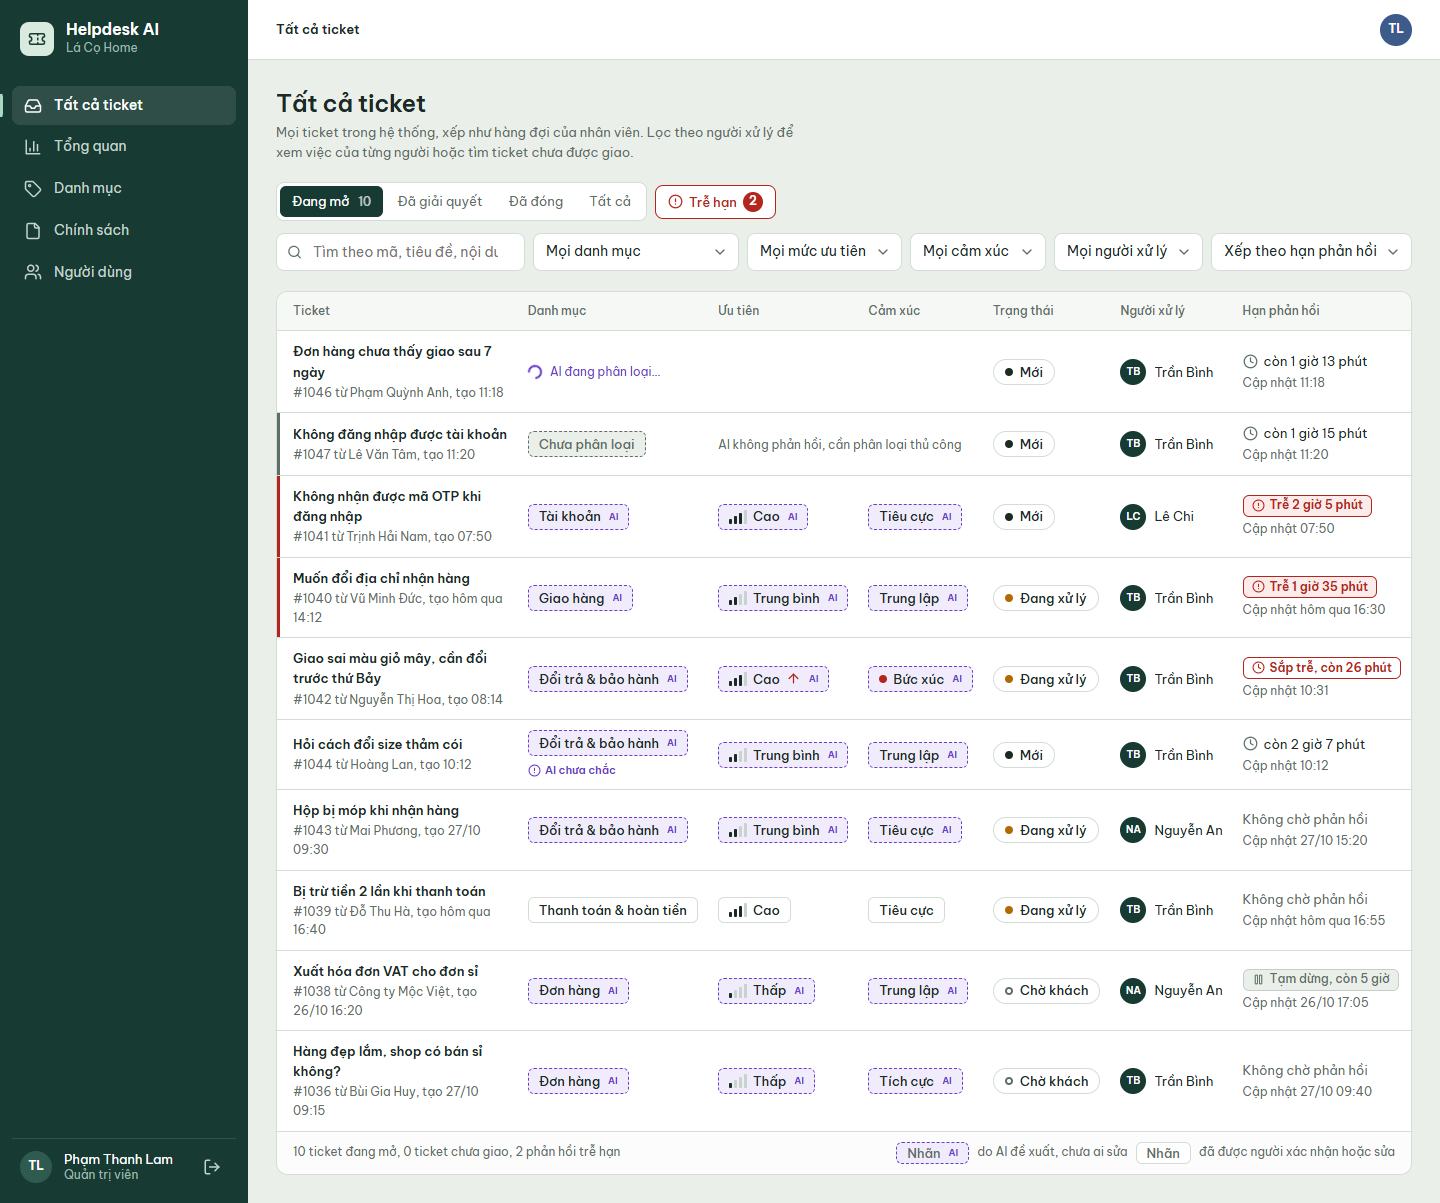
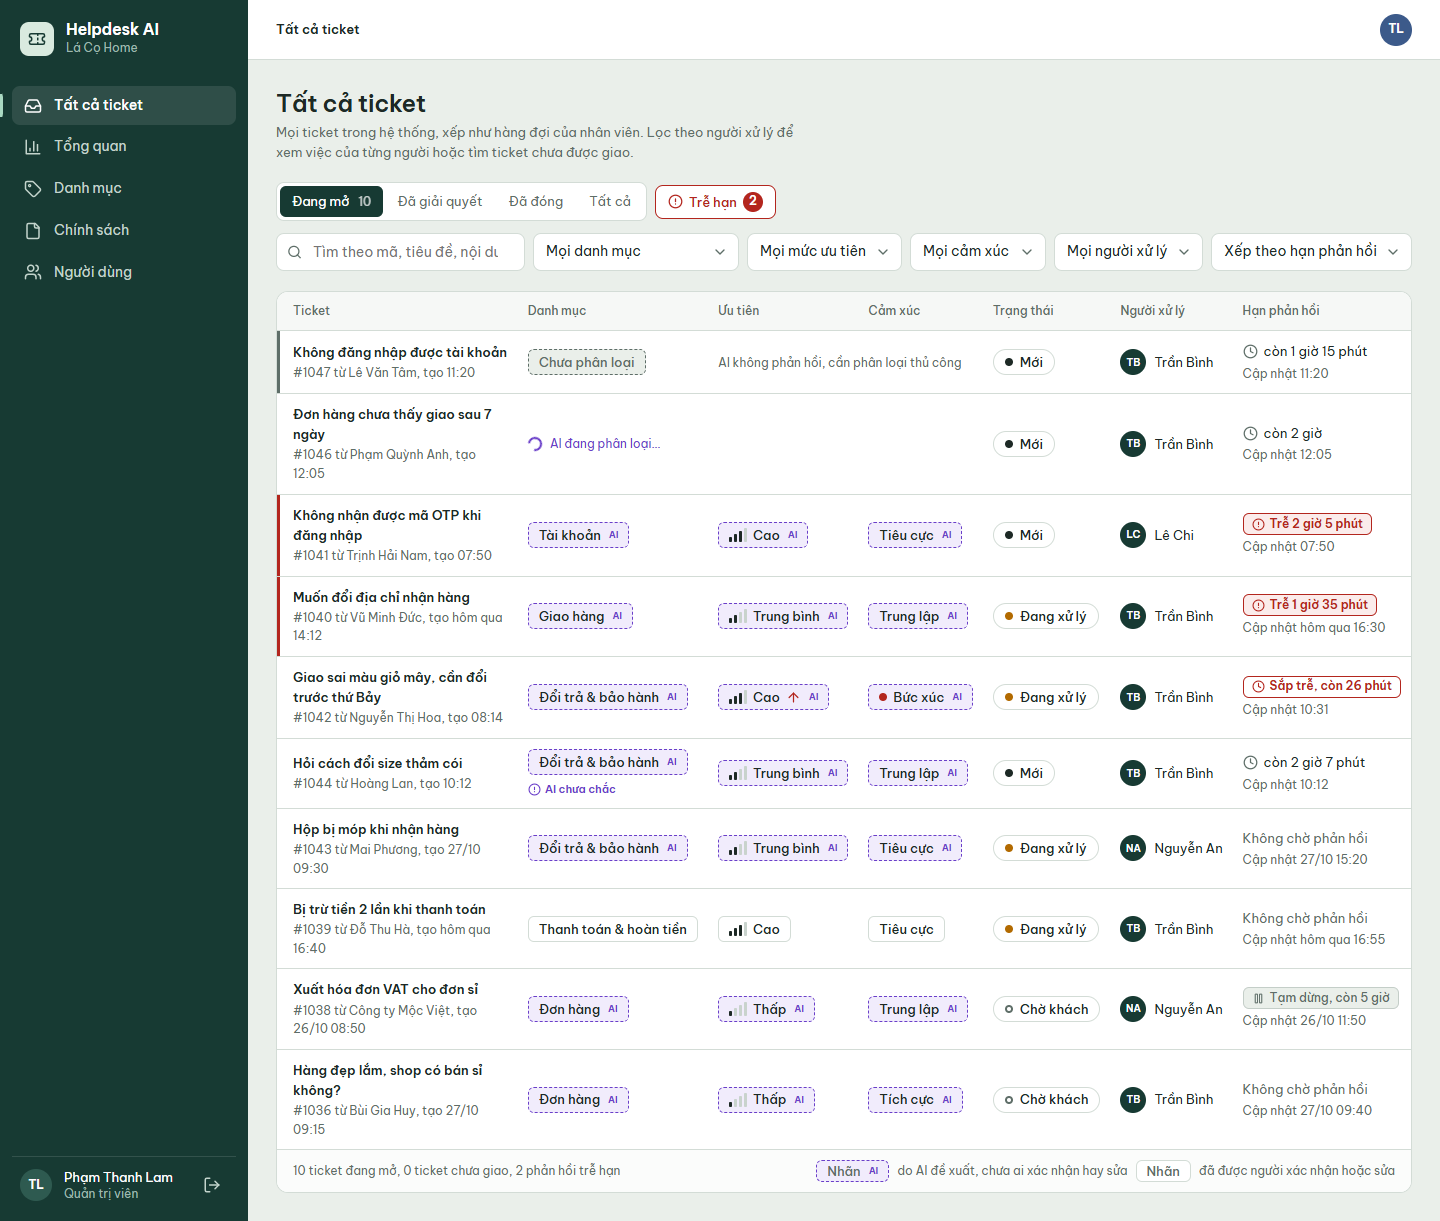
docs(step-4): fix queue sample data and trace BR-22 to the clock stories
- #1046 still Pending at 12:05 is now created at 12:05 (DF-28) and
  sorts after #1047 (pinned group, oldest first)
- #1038 paused time matches its timestamps (low target, 3 h used)
- Legend: AI chips are labels nobody has confirmed or corrected yet
- Queue PNGs re-exported
- BR-22 related to US-06, US-08, US-09, which start or end clocks

diff --git a/docs/04-uiux/wireframes/20-ticket-queue.html b/docs/04-uiux/wireframes/20-ticket-queue.html
@@ -122,13 +122,6 @@
           </tbody>
 
           <tbody data-hide="loading">
-            <tr>
-              <td><div class="t-title"><a href="21-ticket-handling.html?state=classification-pending">Đơn hàng chưa thấy giao sau 7 ngày</a><span>#1046 từ Phạm Quỳnh Anh, tạo 11:18</span></div></td>
-              <td colspan="3"><span class="row xs t-pencil"><span class="spinner" aria-hidden="true"></span>AI đang phân loại…</span></td>
-              <td><span class="status status-new"><span class="dot"></span>Mới</span></td>
-              <td data-role="admin"><span class="cell-person"><span class="avatar avatar-staff">TB</span>Trần Bình</span></td>
-              <td><div class="due"><span class="due-time"><svg class="i i-sm"><use href="#i-clock"></use></svg>còn 1 giờ 13 phút</span><span class="due-upd">Cập nhật 11:18</span></div></td>
-            </tr>
             <tr class="row-attention">
               <td><div class="t-title"><a href="21-ticket-handling.html?state=unclassified-ai-error">Không đăng nhập được tài khoản</a><span>#1047 từ Lê Văn Tâm, tạo 11:20</span></div></td>
               <td><span class="chip chip-unclassified">Chưa phân loại</span></td>
@@ -136,6 +129,13 @@
               <td><span class="status status-new"><span class="dot"></span>Mới</span></td>
               <td data-role="admin"><span class="cell-person"><span class="avatar avatar-staff">TB</span>Trần Bình</span></td>
               <td><div class="due"><span class="due-time"><svg class="i i-sm"><use href="#i-clock"></use></svg>còn 1 giờ 15 phút</span><span class="due-upd">Cập nhật 11:20</span></div></td>
+            </tr>
+            <tr>
+              <td><div class="t-title"><a href="21-ticket-handling.html?state=classification-pending">Đơn hàng chưa thấy giao sau 7 ngày</a><span>#1046 từ Phạm Quỳnh Anh, tạo 12:05</span></div></td>
+              <td colspan="3"><span class="row xs t-pencil"><span class="spinner" aria-hidden="true"></span>AI đang phân loại…</span></td>
+              <td><span class="status status-new"><span class="dot"></span>Mới</span></td>
+              <td data-role="admin"><span class="cell-person"><span class="avatar avatar-staff">TB</span>Trần Bình</span></td>
+              <td><div class="due"><span class="due-time"><svg class="i i-sm"><use href="#i-clock"></use></svg>còn 2 giờ</span><span class="due-upd">Cập nhật 12:05</span></div></td>
             </tr>
             <tr class="row-late" data-role="admin">
               <td><div class="t-title"><a href="21-ticket-handling.html?role=admin">Không nhận được mã OTP khi đăng nhập</a><span>#1041 từ Trịnh Hải Nam, tạo 07:50</span></div></td>
@@ -192,13 +192,13 @@
               <td><div class="due"><span class="due-time due-none">Không chờ phản hồi</span><span class="due-upd">Cập nhật hôm qua 16:55</span></div></td>
             </tr>
             <tr data-role="admin">
-              <td><div class="t-title"><a href="21-ticket-handling.html?role=admin">Xuất hóa đơn VAT cho đơn sỉ</a><span>#1038 từ Công ty Mộc Việt, tạo 26/10 16:20</span></div></td>
+              <td><div class="t-title"><a href="21-ticket-handling.html?role=admin">Xuất hóa đơn VAT cho đơn sỉ</a><span>#1038 từ Công ty Mộc Việt, tạo 26/10 08:50</span></div></td>
               <td><span class="chip is-ai">Đơn hàng</span></td>
               <td><span class="chip is-ai"><span class="meter" data-level="1" aria-hidden="true"><i></i><i></i><i></i><i></i></span>Thấp</span></td>
               <td><span class="chip is-ai">Trung lập</span></td>
               <td><span class="status status-waiting"><span class="dot"></span>Chờ khách</span></td>
               <td><span class="cell-person"><span class="avatar avatar-staff">NA</span>Nguyễn An</span></td>
-              <td><div class="due"><span class="due-time"><span class="sla sla-paused"><svg class="i i-sm"><use href="#i-pause"></use></svg>Tạm dừng, còn 5 giờ</span></span><span class="due-upd">Cập nhật 26/10 17:05</span></div></td>
+              <td><div class="due"><span class="due-time"><span class="sla sla-paused"><svg class="i i-sm"><use href="#i-pause"></use></svg>Tạm dừng, còn 5 giờ</span></span><span class="due-upd">Cập nhật 26/10 11:50</span></div></td>
             </tr>
             <tr>
               <td><div class="t-title"><a href="21-ticket-handling.html">Hàng đẹp lắm, shop có bán sỉ không?</a><span>#1036 từ Bùi Gia Huy, tạo 27/10 09:15</span></div></td>
@@ -230,7 +230,7 @@
         <div class="table-foot" data-hide="loading empty empty-filtered">
           <span data-role="staff">7 ticket đang mở, 1 phản hồi trễ hạn</span>
           <span data-role="admin">10 ticket đang mở, 0 ticket chưa giao, 2 phản hồi trễ hạn</span>
-          <span class="row"><span class="chip is-ai" style="height:22px">Nhãn</span> do AI đề xuất, chưa ai sửa <span class="chip" style="height:22px">Nhãn</span> đã được người xác nhận hoặc sửa</span>
+          <span class="row"><span class="chip is-ai" style="height:22px">Nhãn</span> do AI đề xuất, chưa ai xác nhận hay sửa <span class="chip" style="height:22px">Nhãn</span> đã được người xác nhận hoặc sửa</span>
         </div>
       </div>
     </main>

diff --git a/docs/02-usecases-userstories/04-acceptance-criteria.md b/docs/02-usecases-userstories/04-acceptance-criteria.md
@@ -50,7 +50,7 @@ UC-05 · BR-15
 - **AC-05.4** *Given* any registration request, *when* it is processed, *then* the role is always `CUSTOMER`, even if the request tries to set another role.
 
 ## US-06 — Submit a ticket with optional attachments
-UC-06 · BR-03, BR-08, BR-14
+UC-06 · BR-03, BR-08, BR-14, BR-22
 
 - **AC-06.1** *Given* I am logged in as a Customer, *when* I submit a title (required, up to 200 characters) and a description (required), *then* a ticket is created with status `New` and a ticket number, I see a confirmation, and it appears in My tickets.
 - **AC-06.2** *Given* the submit form, *when* I open the category list, *then* it shows only active categories plus an empty choice "Not sure".
@@ -79,7 +79,7 @@ UC-07 · BR-02
 - **AC-07.6** *Given* another customer's ticket number, *when* I try to open it, *then* access is denied.
 
 ## US-08 — Reply to my ticket
-UC-08 · BR-05, BR-06, BR-07
+UC-08 · BR-05, BR-06, BR-07, BR-22
 
 - **AC-08.1** *Given* my ticket is `New` or `In Progress`, *when* I send a reply, *then* it appears in the conversation and the status does not change.
 - **AC-08.2** *Given* my ticket is `Waiting for Customer`, *when* I send a reply, *then* the status becomes `In Progress` (T4).
@@ -88,7 +88,7 @@ UC-08 · BR-05, BR-06, BR-07
 - **AC-08.5** *Given* an empty reply, *when* I try to send it, *then* it is not sent.
 
 ## US-09 — Close my ticket
-UC-09 · BR-06
+UC-09 · BR-06, BR-22
 
 - **AC-09.1** *Given* my ticket is not `Closed`, *when* I choose Close and confirm, *then* the status becomes `Closed`.
 - **AC-09.2** *Given* a `Closed` ticket, *when* anyone tries to reply or change its status, *then* the action is rejected.

diff --git a/docs/requirements/business-rules.md b/docs/requirements/business-rules.md
@@ -298,7 +298,7 @@ Each transition can also pause, resume, or end the response clock (BR-22).
 ## BR-22 — Reply deadlines (SLA)
 
 - **Source:** D-35, DF-15, DF-31..DF-33
-- **Related US:** US-10, US-12, US-13, US-14, US-15, US-16, US-19, US-24
+- **Related US:** US-06, US-08, US-09, US-10, US-12, US-13, US-14, US-15, US-16, US-19, US-24
 - **Related API:** TBD (Step 6), triggered by submit ticket, reply (customer, Staff, Admin), change status, correct or confirm labels, and the classification result
 - **Rule:**
   1. **Response clock.** A ticket has at most one open clock. It starts when the ticket is created (first response) or when the customer writes while no clock is open (next response). Further customer messages do not restart it.
